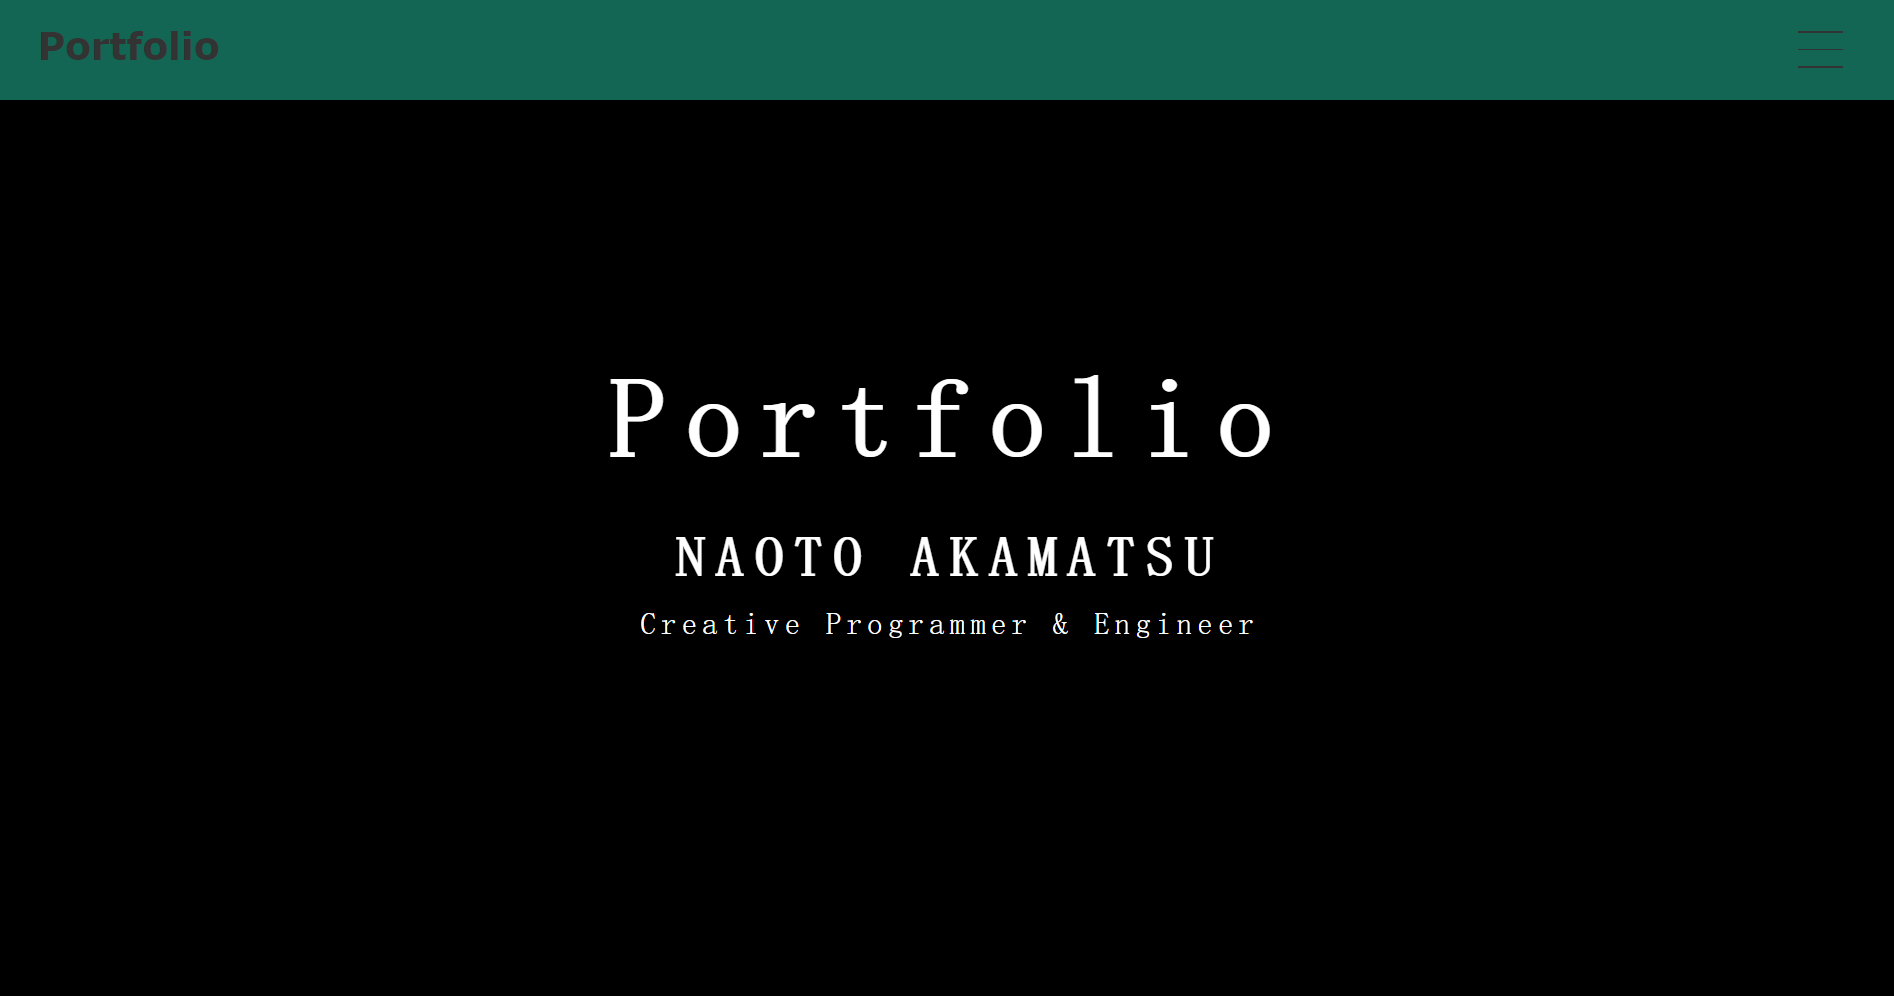
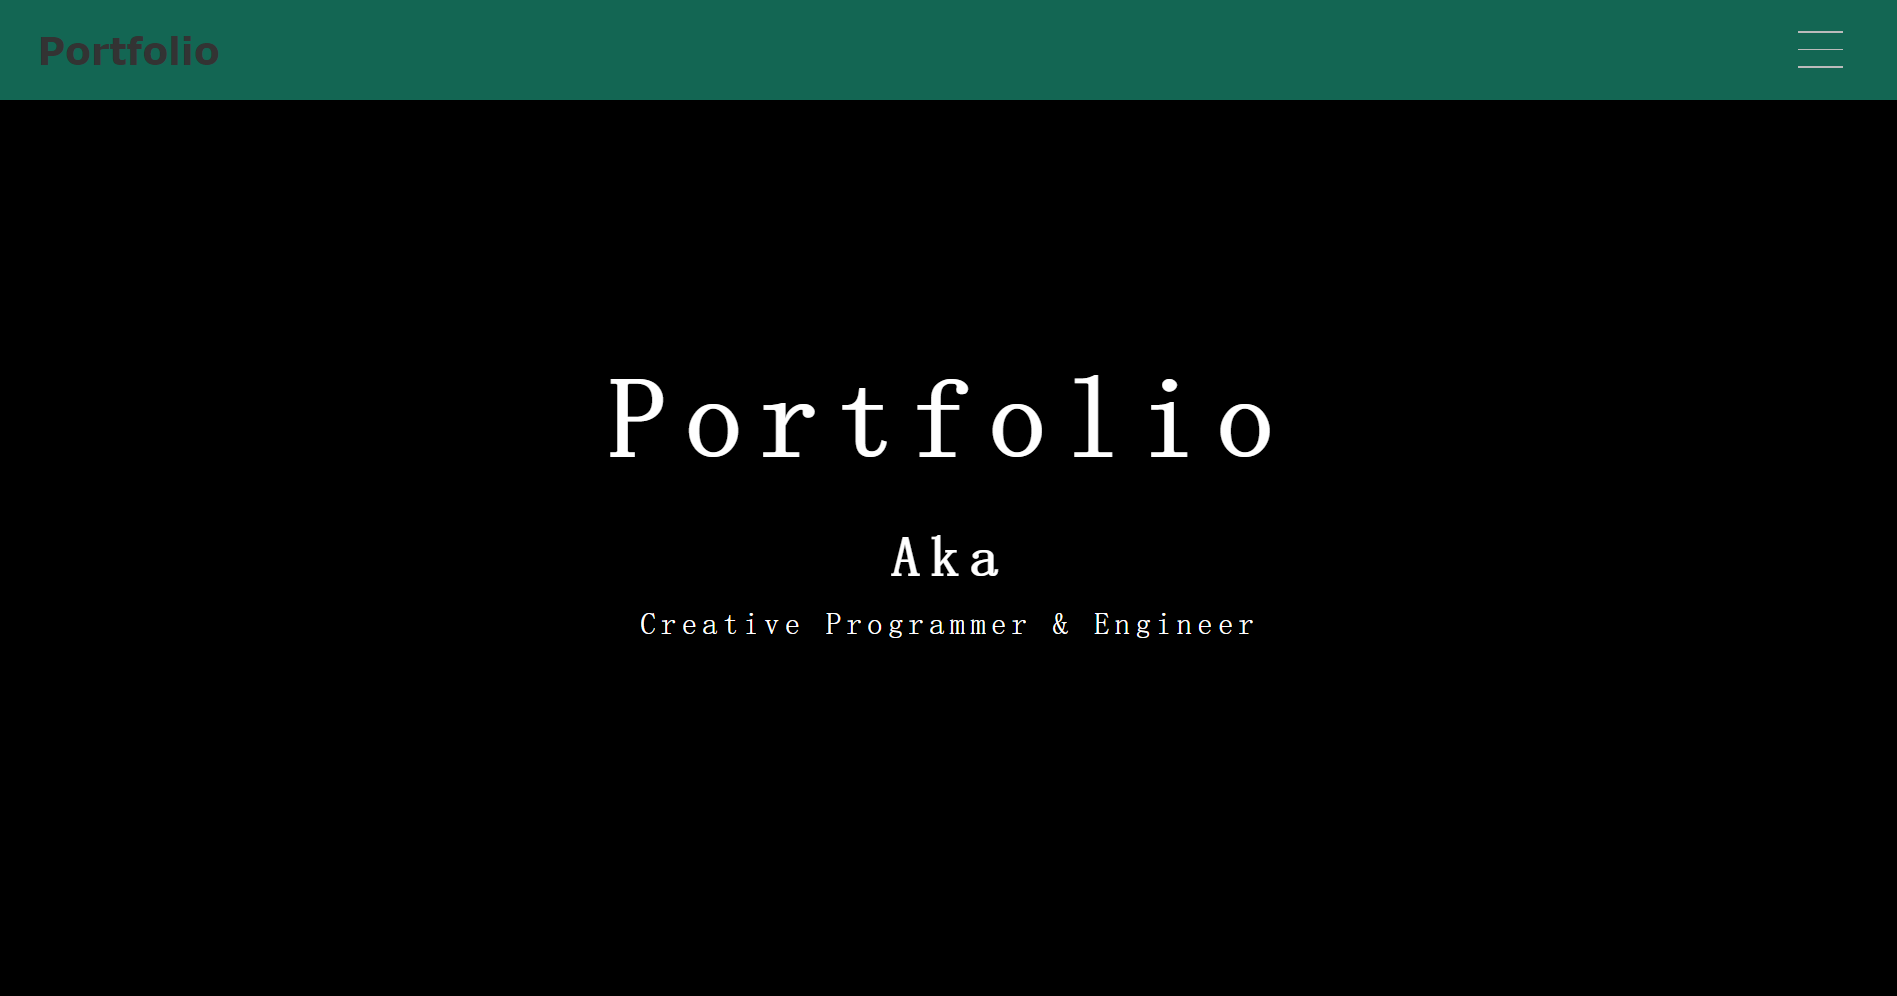
Add files via upload

diff --git a/about.html b/about.html
@@ -51,7 +51,8 @@
         <div class="image">
           <img src="img/about_me.jpg" alt="about me">
           <div class="context">
-            <h1><ruby><rb>赤松</rb><rt>アカマツ</rt></ruby>  <ruby><rb>直人</rb><rt>ナオト</rt></ruby></h1>
+            <!-- <h1><ruby><rb>赤松</rb><rt>アカマツ</rt></ruby>  <ruby><rb>直人</rb><rt>ナオト</rt></ruby></h1> -->
+            <h1>Aka</h1>
           </div>
         </div>
       </div>
@@ -59,18 +60,20 @@
       <div class="page-layout page-style">
         <dl class="dl-small">
           <dt>所属</dt>
-          <dd>大阪大学 基礎工学部 システム科学科 機械工学専攻</dd>
+          <dd>旧帝大 理系学部</dd>
           <dt>スキル</dt>
           <dd>HTML, CSS, JavaScript(jQuery), Ruby, Ruby on Rails, Python, SQL, AWS, Docker, Circle CI</dd>
           <dt>資格</dt>
           <dd>・TOEIC 805点(2019年３月)<br>・実用英語技能検定 準一級(2018年11月)</dd>
           <dt>その他スキル</dt>
-          <dd>・FX投資<br>・ファイナンシャル知識<br>・楽器演奏（ピアノ、アコースティックギター）</dd>
+          <dd>・FX投資<br>・ファイナンシャル知識<br>・各業界の知識（数千時間の情報収集）</dd>
         </dl>
         <div class="small-wrap">
           <p>
             経歴詳細：<br>
-            2017年に大阪大学基礎工学部に入学。2018年の8月から英語学習、11月からFX投資の勉強を始める。2019年9月よりプログラミング学習を独学で始め、プログラミングに夢中になり、web業界で働くことに憧れる。約半年でプログラミングの学習時間が1000時間を越え、複数のポートフォリオを制作。FXでは学習時間が1000時間を越えても収支がマイナスで挫折しそうになるが、学習を継続し2019年11月から収支がプラスに。また、英検１級の取得を目指し英語学習も継続中。興味を持ったことに熱中し継続する性格が強みです。
+            旧帝大に入学するも大企業の実態を知り絶望→個人の力で自由に生きるため行動を開始→プログラミング・英語・投資で自由を手に入れると決意。<br>
+            ４ヶ月間フルコミットでプログラミングを学習し、複数のポートフォリオを作成。その後、案件受注で月10万円達成、六本木のメガベンチャーにサーバーサイドエンジニアとして内定を得る。FXでは学習時間が1000時間を越えても収支がマイナスで挫折しそうになるが、学習を継続し月利5%を３カ月連続で達成。英検１級の取得を目指し半年で4000語の単語を暗記。<br>
+            2020年4月からTwitterを開始し、自身の数千時間の経験をもとに役立つ情報を発信します。
           </p>
         </div>
       </div>
@@ -82,9 +85,9 @@
       <p>Aka's Portfolio</p>
       <p>Copyright © Aka All Rights Reserved.</p>
       <div class="others">
-        <a href="" class="twitter"><i class="fab fa-twitter"></i>ツイート</a>
-        <a href="" class="good"><i class="far fa-thumbs-up"></i>いいね！</a>
-        <a href="" class="share">シェア</a>
+        <a href="https://twitter.com/aka_chmock" class="twitter"><i class="fab fa-twitter"></i>ツイート</a>
+        <!-- <a href="" class="good"><i class="far fa-thumbs-up"></i>いいね！</a>
+        <a href="" class="share">シェア</a> -->
       </div>
       <h2>Designed by Aka</h2>
     </div>

diff --git a/index.html b/index.html
@@ -44,7 +44,7 @@
     <div class="wrapper1">
       <div class="wrapper1-container">
         <h2 style="display: none" id="portfolio">Portfolio</h2>
-        <h1 style="display: none" id="name">NAOTO AKAMATSU</h1>
+        <h1 style="display: none" id="name">Aka</h1>
         <p style="display: none" id="intro">Creative Programmer & Engineer</p>
       </div>
     </div>
@@ -62,11 +62,13 @@
             <h1><span class="color">My</span> Story</h1>
 
             <div class="text">
-              <p>2019年9月からプログラミング学習を開始。HTML, CSS, JavaScript, Ruby, Ruby on Rails, SQL, AWS, Docker, Circle CIなどを学習し、サイト模写・オリジナルアプリ・オリジナルサイトを作成。オリジナルアプリを作成後、実務経験を経てさらにスキルアップしようと考え就職活動を決意。圧倒的な集中力、継続力、自身のスキルアップに対する熱意が強みです。</p>
-              <p>【経歴】滋賀県立守山高校 → 大阪大学 基礎工学部<br>
+              <p>旧帝大に入学するも大企業の実態を知り絶望→個人の力で自由に生きるため行動を開始→プログラミング・英語・投資で自由を手に入れると決意。<br>
+                案件受注で月10万円達成 | 六本木のメガベンチャーにサーバーサイドエンジニアとして内定 | 初受験でTOEIC805点 | FXで月利5%を３カ月連続で達成</p>
+              <p>【所属】旧帝大 理系学部<br>
                 【言語】HTML, CSS, JavaScript(jQuery), Ruby, Ruby on Rails, Python<br>
-                【データベース】MySQL<br>
+                【データベース】SQL<br>
                 【インフラ】AWS, Docker, Circle CI ,heroku<br>
+                【GitHub】<a href="https://github.com/inherics">https://github.com/inherics</a><br>
               </p>
               </div>
 
@@ -91,7 +93,7 @@
                   <div class="common python"><p>Python</p></div>
                 </div>
                 <div class="bar">
-                  <div class="common sql"><p>MySQL</p></div>
+                  <div class="common sql"><p>SQL</p></div>
                 </div>
                 <div class="bar">
                   <div class="common aws"><p>AWS</p></div>
@@ -160,9 +162,9 @@
           <p>Aka's Portfolio</p>
           <p>Copyright © Aka All Rights Reserved.</p>
           <div class="others">
-            <a href="" class="twitter"><i class="fab fa-twitter"></i>ツイート</a>
-            <a href="" class="good"><i class="far fa-thumbs-up"></i>いいね！</a>
-            <a href="" class="share">シェア</a>
+            <a href="https://twitter.com/aka_chmock" class="twitter"><i class="fab fa-twitter"></i>ツイート</a>
+            <!-- <a href="" class="good"><i class="far fa-thumbs-up"></i>いいね！</a>
+            <a href="" class="share">シェア</a> -->
           </div>
           <h2>Designed by Aka</h2>
         </div>

diff --git a/works.html b/works.html
@@ -154,7 +154,7 @@
                   ・jQuery(slick, swiper)を用いたスライド機能
               </dd>
               <dt>内容</dt>
-              <dd>自分専用のポートフォリオサイト</dd>
+              <dd>ポートフォリオサイト</dd>
               <dt>制作時間</dt>
               <dd>20時間</dd>
             </dl>
@@ -184,9 +184,9 @@
               <dt>制作時間</dt>
               <dd>25時間</dd>
               <dt>ソースコード</dt>
-              <dd>https://github.com/inherics/isara_mosya</dd>
+              <dd><a href="https://github.com/inherics/isara_mosya">https://github.com/inherics/isara_mosya</a></dd>
               <dt>元ページ<br>(isara.life)</dt>
-              <dd>https://isara.life/</dd>
+              <dd><a href="https://isara.life">https://isara.life</a></dd>
             </dl>
           </div>
         </div>
@@ -205,9 +205,9 @@
       <p>Aka's Portfolio</p>
       <p>Copyright © Aka All Rights Reserved.</p>
       <div class="others">
-        <a href="" class="twitter"><i class="fab fa-twitter"></i>ツイート</a>
-        <a href="" class="good"><i class="far fa-thumbs-up"></i>いいね！</a>
-        <a href="" class="share">シェア</a>
+        <a href="https://twitter.com/aka_chmock" class="twitter"><i class="fab fa-twitter"></i>ツイート</a>
+        <!-- <a href="" class="good"><i class="far fa-thumbs-up"></i>いいね！</a>
+        <a href="" class="share">シェア</a> -->
       </div>
       <h2>Designed by Aka</h2>
     </div>

diff --git a/contact.html b/contact.html
@@ -73,9 +73,9 @@
       <p>Aka's Portfolio</p>
       <p>Copyright © Aka All Rights Reserved.</p>
       <div class="others">
-        <a href="" class="twitter"><i class="fab fa-twitter"></i>ツイート</a>
-        <a href="" class="good"><i class="far fa-thumbs-up"></i>いいね！</a>
-        <a href="" class="share">シェア</a>
+        <a href="https://twitter.com/aka_chmock" class="twitter"><i class="fab fa-twitter"></i>ツイート</a>
+        <!-- <a href="" class="good"><i class="far fa-thumbs-up"></i>いいね！</a>
+        <a href="" class="share">シェア</a> -->
       </div>
       <h2>Designed by Aka</h2>
     </div>
